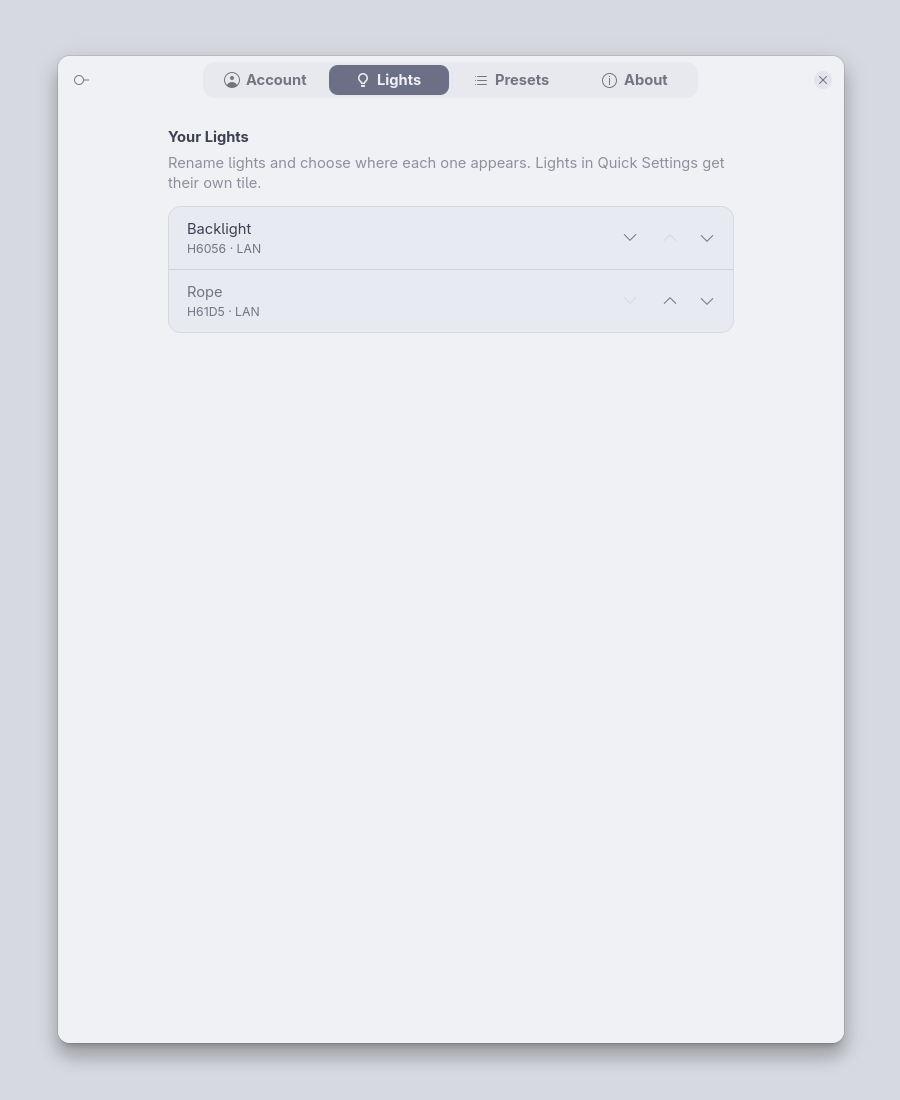
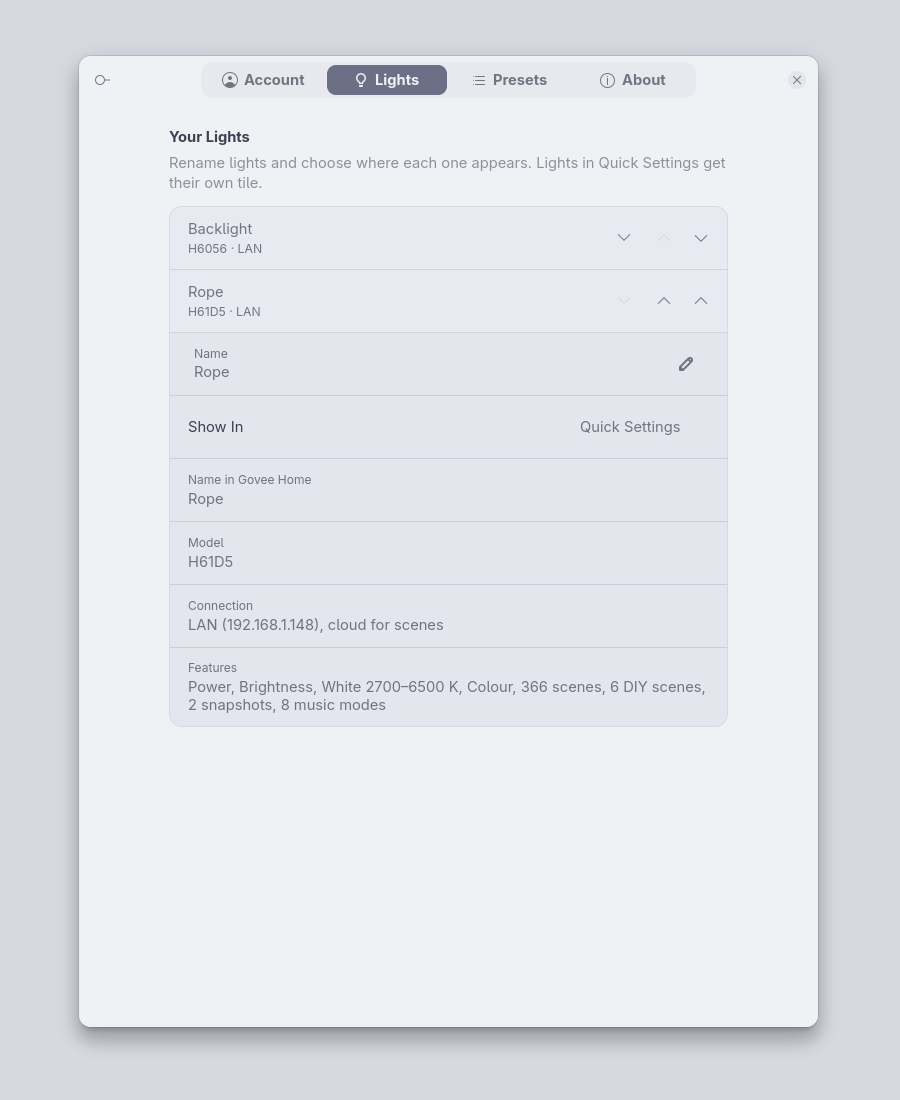
Show an expanded light on the Lights page screenshot

diff --git a/README.md b/README.md
@@ -51,7 +51,7 @@ Lights that have *LAN Control* enabled are driven directly over your local netwo
 
 <p align="center">
   <img src="docs/screenshots/prefs-account.png" alt="Settings, Account page: API key, LAN reachability and cloud usage" width="270">
-  <img src="docs/screenshots/prefs-lights.png" alt="Settings, Lights page: two lights and how they are reached" width="270">
+  <img src="docs/screenshots/prefs-lights.png" alt="Settings, Lights page: Rope expanded, shown in Quick Settings and reached over LAN" width="270">
   <img src="docs/screenshots/prefs-presets.png" alt="Settings, Presets page: the Movie Night preset with two lights" width="270">
 </p>
 <p align="center"><em>Settings: Account, Lights and Presets</em></p>

diff --git a/docs/getting-started.md b/docs/getting-started.md
@@ -51,7 +51,7 @@ Open the **Lights** page. Each light has its own expandable row:
 
 The top-bar icon only appears when at least one light or preset is placed there.
 
-<p align="center"><img src="screenshots/prefs-lights.png" alt="The Lights page listing two lights with their model and connection" width="450"></p>
+<p align="center"><img src="screenshots/prefs-lights.png" alt="The Lights page with Rope expanded: name, Show In, model, connection and features" width="450"></p>
 
 ## 5. Using the controls
 
